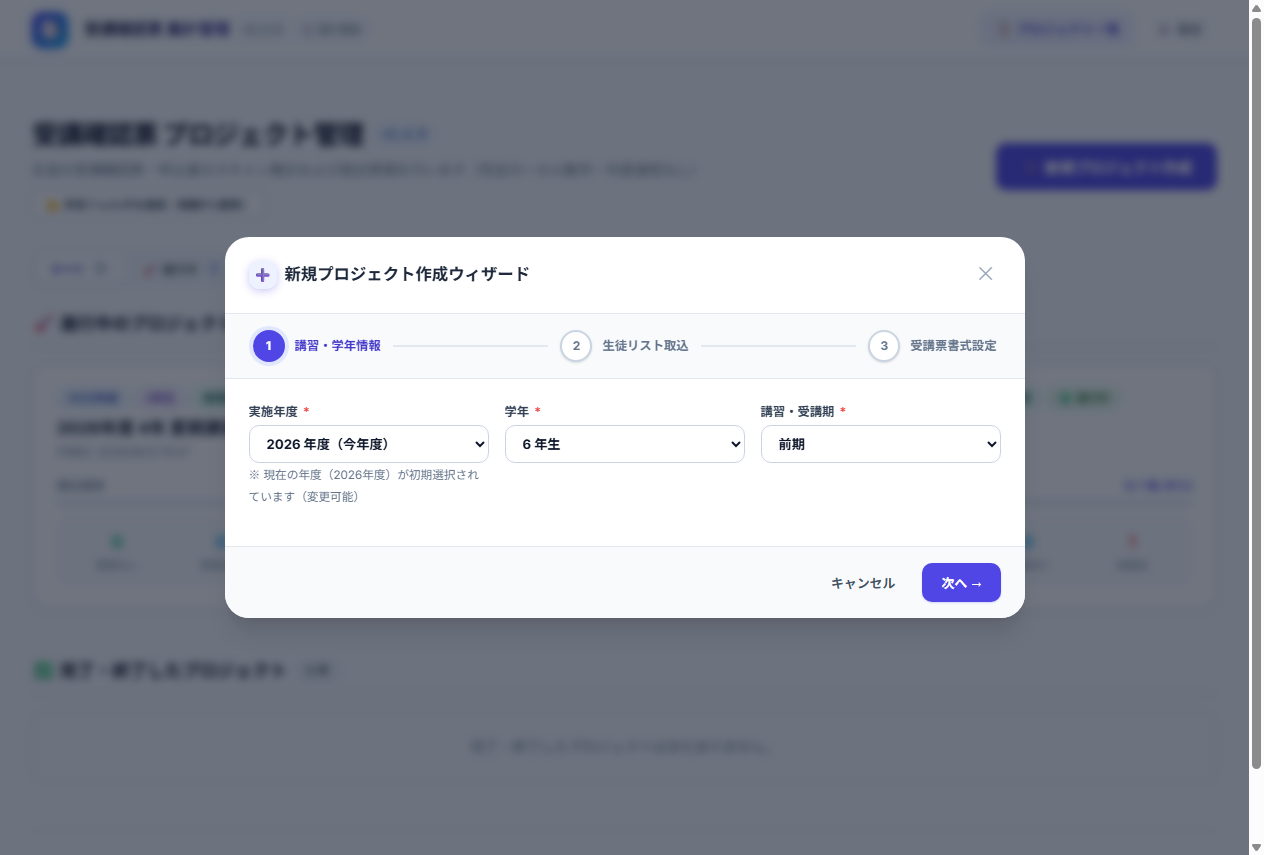
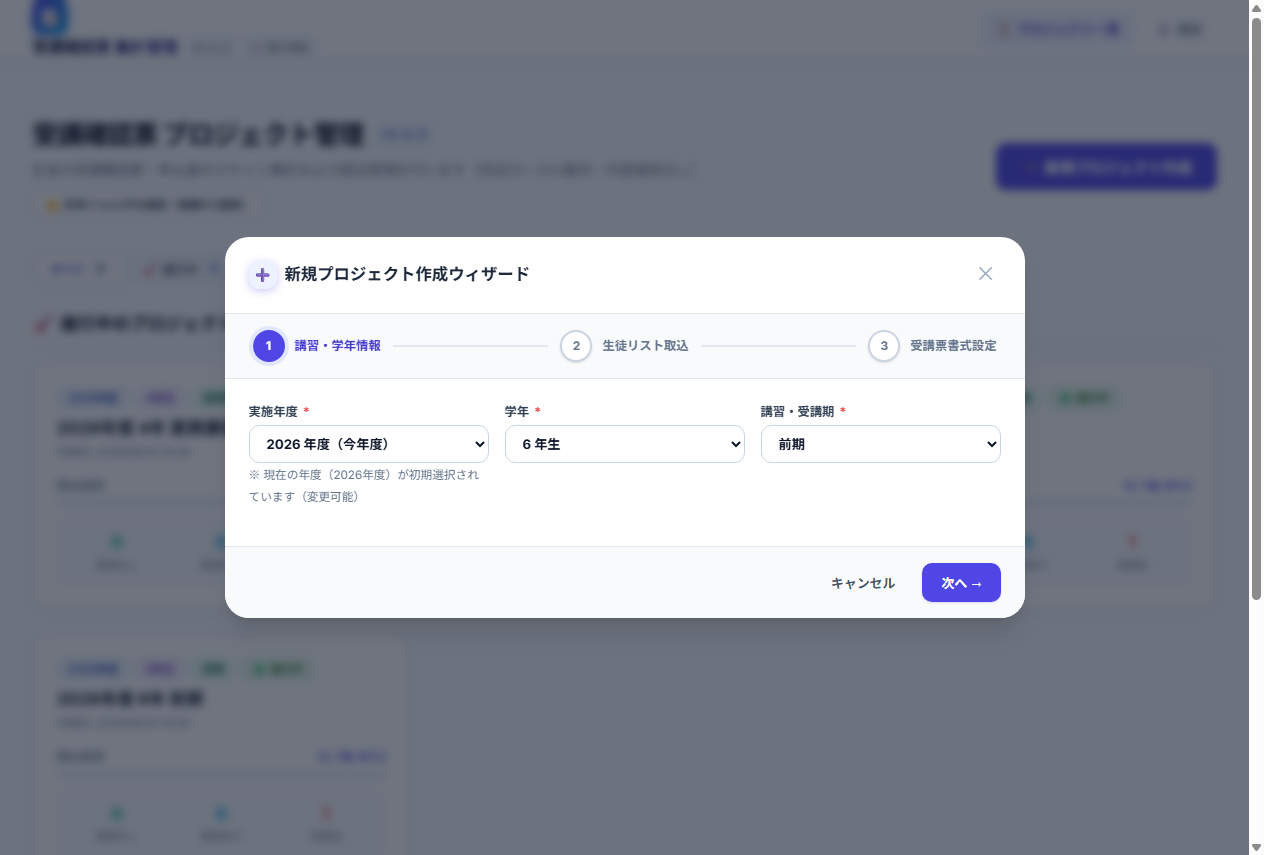
feat: modularize application with new page components, database manager, and session options support

Changed region(s): [[0.0, 0.0, 0.1851, 0.0608], [0.9873, 0.6994, 1.0, 0.9123], [0.0309, 0.7602, 0.1543, 0.8211]]

diff --git a/js/sync/sync-manager.js b/js/sync/sync-manager.js
@@ -4,6 +4,7 @@
  */
 
 import { db, DB } from '../db.js';
+import { UI } from '../utils/ui.js';
 import { FolderConnector } from './folder-connector.js';
 import { PendingQueue } from './pending-queue.js';
 
@@ -305,8 +306,8 @@ export const SyncManager = {
         id: project.id,
         year: project.year,
         grade: project.grade,
-        sessionName: project.sessionName,
-        title: project.title,
+        sessionName: UI.formatSession(project.sessionName),
+        title: UI.formatProjectTitle(project.title),
         status: project.status || '進行中',
         scanTemplate: project.scanTemplate || null,
         createdAt: project.createdAt,
@@ -488,15 +489,21 @@ export const SyncManager = {
           return { newEventsCount: 0, totalEvents: 0, notFound: true };
         }
 
-        // 1. meta.json の確認と更新（ステータス変更等の同期）
+        // 1. meta.json の確認と更新（タイトル・受講期表記正規化およびステータス同期）
         const meta = await this.readJsonFile(projDir, 'meta.json');
         if (meta) {
           const localProj = await db.projects.get(projectId);
-          if (localProj && localProj.status !== meta.status) {
-            await db.projects.update(projectId, {
-              status: meta.status,
-              completedAt: meta.completedAt || null
-            });
+          if (localProj) {
+            const cleanTitle = UI.formatProjectTitle(meta.title || localProj.title);
+            const cleanSession = UI.formatSession(meta.sessionName || localProj.sessionName);
+            const updates = {};
+            if (localProj.title !== cleanTitle) updates.title = cleanTitle;
+            if (localProj.sessionName !== cleanSession) updates.sessionName = cleanSession;
+            if (localProj.status !== meta.status) updates.status = meta.status;
+            if (localProj.completedAt !== (meta.completedAt || null)) updates.completedAt = meta.completedAt || null;
+            if (Object.keys(updates).length > 0) {
+              await db.projects.update(projectId, updates);
+            }
           }
         }
 
@@ -779,6 +786,8 @@ export const SyncManager = {
         if (handle.kind === 'directory' && name.startsWith('proj_')) {
           const meta = await this.readJsonFile(handle, 'meta.json');
           if (meta) {
+            meta.sessionName = UI.formatSession(meta.sessionName);
+            meta.title = UI.formatProjectTitle(meta.title);
             sharedProjects.push({
               dirName: name,
               meta,
@@ -850,8 +859,8 @@ export const SyncManager = {
         id: meta.id,
         year: meta.year,
         grade: meta.grade,
-        sessionName: meta.sessionName,
-        title: meta.title,
+        sessionName: UI.formatSession(meta.sessionName),
+        title: UI.formatProjectTitle(meta.title),
         status: meta.status || '進行中',
         scanTemplate: meta.scanTemplate || null,
         createdAt: meta.createdAt || new Date().toISOString(),

diff --git a/js/db.js b/js/db.js
@@ -115,11 +115,42 @@ export const DB = {
   /* ================= プロジェクト操作 ================= */
 
   /**
+   * プロジェクトレコードの表記正規化（「前期講習」等の旧表記・不整合を「前期」に補正・DB自動マイグレーション）
+   */
+  _normalizeProjectRecord(p) {
+    if (!p) return p;
+    let modified = false;
+    let sessionName = p.sessionName;
+    if (sessionName) {
+      const cleanSession = UI.formatSession(sessionName);
+      if (cleanSession !== sessionName) {
+        sessionName = cleanSession;
+        modified = true;
+      }
+    }
+    let title = p.title;
+    if (title) {
+      const cleanTitle = UI.formatProjectTitle(title);
+      if (cleanTitle !== title) {
+        title = cleanTitle;
+        modified = true;
+      }
+    }
+    if (modified && p.id) {
+      p.sessionName = sessionName;
+      p.title = title;
+      // バックグラウンドでIndexedDBを更新修復
+      db.projects.update(p.id, { sessionName, title }).catch(() => {});
+    }
+    return p;
+  },
+
+  /**
    * 全プロジェクト一覧を取得（新しい順）
    */
   async getProjects() {
     const list = await db.projects.toArray();
-    return list.map(p => ({
+    return list.map(p => this._normalizeProjectRecord({
       ...p,
       status: p.status || '進行中'
     })).sort((a, b) => new Date(b.createdAt) - new Date(a.createdAt));
@@ -146,6 +177,7 @@ export const DB = {
     const project = await db.projects.get(projectId);
     if (project) {
       project.status = project.status || '進行中';
+      this._normalizeProjectRecord(project);
     }
     return project;
   },
@@ -156,13 +188,14 @@ export const DB = {
   async createProject({ year, grade, sessionName, students, scanTemplate }) {
     const projectId = 'proj_' + Date.now() + '_' + Math.random().toString(36).substr(2, 6);
     const sessionDisplay = UI.formatSession(sessionName);
+    const normalizedSession = (sessionDisplay === '前期' || sessionDisplay === '後期') ? sessionDisplay : sessionName;
     const title = `${year}年度 ${grade}年 ${sessionDisplay}`;
 
     const project = {
       id: projectId,
       year: parseInt(year, 10),
       grade: parseInt(grade, 10),
-      sessionName,
+      sessionName: normalizedSession,
       title,
       status: '進行中',
       completedAt: null,

diff --git a/index.html b/index.html
@@ -12,10 +12,10 @@
   <link href="https://fonts.googleapis.com/css2?family=Inter:wght@400;500;600;700;800&family=JetBrains+Mono:wght@500;700&family=Noto+Sans+JP:wght@400;500;700;800&display=swap" rel="stylesheet">
 
   <!-- CSS Stylesheets -->
-  <link rel="stylesheet" href="css/variables.css?v=1.6.2">
-  <link rel="stylesheet" href="css/base.css?v=1.6.2">
-  <link rel="stylesheet" href="css/components.css?v=1.6.2">
-  <link rel="stylesheet" href="css/pages.css?v=1.6.2">
+  <link rel="stylesheet" href="css/variables.css?v=1.6.3">
+  <link rel="stylesheet" href="css/base.css?v=1.6.3">
+  <link rel="stylesheet" href="css/components.css?v=1.6.3">
+  <link rel="stylesheet" href="css/pages.css?v=1.6.3">
 
   <!-- Global Error Trap for Bootstrap -->
   <script>
@@ -38,18 +38,21 @@
 
   <!-- Local Libraries (No External Network Dependencies) -->
   <script src="lib/dexie.min.js"></script>
+  <script src="lib/jsbarcode.all.min.js"></script>
   <script src="lib/xlsx.full.min.js"></script>
-  <script src="lib/pdf.min.js"></script>
-  <script src="lib/zxing-library.min.js"></script>
+  <script src="lib/browser-fs-access.min.js"></script>
+
+  <!-- Application Entry Point (ES Modules) -->
+  <script type="module" src="js/app.js?v=1.6.3"></script>
 </head>
 <body>
-  <!-- Header -->
+  <!-- Header Bar -->
   <header class="app-header">
-    <a href="#home" class="header-brand">
-      <div class="brand-icon">📑</div>
+    <a href="#home" class="brand" style="text-decoration: none;">
+      <span class="brand-icon">📑</span>
       <div style="display: flex; align-items: center; gap: 8px;">
         <div class="brand-title">受講確認票 集計管理</div>
-        <span class="brand-version" id="header-app-version">v1.6.2</span>
+        <span class="brand-version" id="header-app-version">v1.6.3</span>
         <span id="header-sync-indicator" class="badge badge-gray" style="font-size: 0.72rem; padding: 2px 6px; cursor: pointer;" title="共有フォルダ接続状態（クリックで設定へ）">⚪ ローカル</span>
       </div>
     </a>

diff --git a/js/pages/project.js b/js/pages/project.js
@@ -64,7 +64,7 @@ export const ProjectPage = {
                 <span class="badge ${isFolderConnected ? 'badge-success' : (FolderConnector.isPermissionPending() ? 'badge-warning' : 'badge-gray')}" style="font-size: 0.75rem;">
                   ${isFolderConnected ? '🟢 共有同期中' : (FolderConnector.isPermissionPending() ? '🟡 共有再開待ち' : '⚪ ローカル')}
                 </span>
-                <h1 style="font-size: 1.4rem; font-weight: 800; color: var(--gray-900); display: inline; margin-left: 4px;">${project.title}</h1>
+                <h1 style="font-size: 1.4rem; font-weight: 800; color: var(--gray-900); display: inline; margin-left: 4px;">${UI.formatProjectTitle(project.title)}</h1>
               </div>
               <div style="font-size: 0.82rem; color: var(--gray-500);">
                 登録生徒数: <span id="header-stat-total" class="font-bold text-mono">${stats.total}</span> 名 | 
@@ -799,7 +799,7 @@ export const ProjectPage = {
             <div>
               <h3 class="modal-title font-bold">受講確認票 書式・読取位置調整</h3>
               <div style="font-size: 0.8rem; color: var(--gray-500); font-weight: normal;">
-                対象: ${project.title}
+                対象: ${UI.formatProjectTitle(project.title)}
               </div>
             </div>
           </div>
@@ -930,7 +930,7 @@ export const ProjectPage = {
               <div>
                 <h3 class="modal-title font-bold">生徒管理</h3>
                 <div style="font-size: 0.8rem; color: var(--gray-500); font-weight: normal;">
-                  対象: ${project.title} | 現在の登録生徒数: <span class="text-mono font-bold" id="modal-student-count">${students.length}</span> 名
+                  対象: ${UI.formatProjectTitle(project.title)} | 現在の登録生徒数: <span class="text-mono font-bold" id="modal-student-count">${students.length}</span> 名
                 </div>
               </div>
             </div>

diff --git a/js/pages/home.js b/js/pages/home.js
@@ -116,7 +116,7 @@ export const HomePage = {
                       <span class="badge badge-gray" style="font-size: 0.72rem;">未取り込み</span>
                     </div>
                   </div>
-                  <h3 class="project-title">${sp.meta.title}</h3>
+                  <h3 class="project-title">${UI.formatProjectTitle(sp.meta.title)}</h3>
                   <div style="font-size: 0.8rem; color: var(--gray-500); margin-top: 4px;">
                     作成日: ${UI.formatDate(sp.meta.createdAt)}
                   </div>
@@ -268,7 +268,7 @@ export const HomePage = {
               ${isExpired ? '<span class="badge badge-warning">3年経過</span>' : ''}
             </div>
           </div>
-          <h3 class="project-title">${p.title}</h3>
+          <h3 class="project-title">${UI.formatProjectTitle(p.title)}</h3>
           <div style="font-size: 0.8rem; color: var(--gray-500); margin-top: 4px;">
             作成日: ${UI.formatDate(p.createdAt)}
             ${p.completedAt ? ` | 完了日: ${UI.formatDate(p.completedAt)}` : ''}
@@ -802,7 +802,7 @@ export const HomePage = {
               });
 
               const syncMsg = FolderConnector.isConnected() ? '（共有フォルダへ書き出しました）' : '';
-              UI.showToast(`「${project.title}」を作成しました${syncMsg}`, 'success');
+              UI.showToast(`「${UI.formatProjectTitle(project.title)}」を作成しました${syncMsg}`, 'success');
               modal.remove();
               window.location.hash = `#project/${project.id}`;
             } catch (err) {

diff --git a/js/utils/ui.js b/js/utils/ui.js
@@ -275,15 +275,29 @@ export const UI = {
   },
 
   /**
-   * 講習名・受講期を表示用に整形（例: "夏期" -> "夏期講習", "前期" -> "前期"）
+   * 講習名・受講期を表示用に整形（例: "夏期" -> "夏期講習", "前期" -> "前期", "前期講習" -> "前期"）
    * @param {string} sessionName
    * @returns {string}
    */
   formatSession(sessionName) {
     if (!sessionName) return '';
-    if (sessionName === '前期' || sessionName === '後期') return sessionName;
-    if (sessionName.includes('講習')) return sessionName;
-    return `${sessionName}講習`;
+    const clean = String(sessionName).trim();
+    if (clean === '前期' || clean === '前期講習' || clean.startsWith('前期')) return '前期';
+    if (clean === '後期' || clean === '後期講習' || clean.startsWith('後期')) return '後期';
+    if (clean.includes('講習')) return clean;
+    return `${clean}講習`;
+  },
+
+  /**
+   * プロジェクトタイトルの表示整形（「前期講習」->「前期」、「後期講習」->「後期」）
+   * @param {string} title
+   * @returns {string}
+   */
+  formatProjectTitle(title) {
+    if (!title) return '';
+    return String(title)
+      .replace(/前期講習/g, '前期')
+      .replace(/後期講習/g, '後期');
   },
 
   /**

diff --git a/js/pages/list.js b/js/pages/list.js
@@ -366,13 +366,15 @@ export const ListPage = {
 
     // 出力
     this.container.querySelector('#btn-export-csv').onclick = () => {
-      const fileName = `${this.project.title}_提出集計_${new Date().toISOString().slice(0, 10)}.csv`;
+      const cleanTitle = UI.formatProjectTitle(this.project.title);
+      const fileName = `${cleanTitle}_提出集計_${new Date().toISOString().slice(0, 10)}.csv`;
       CsvUtil.exportSubmissionsCsv(this.filteredList, fileName);
       UI.showToast(`CSVファイルを出力しました (${this.filteredList.length} 件)`, 'success');
     };
 
     this.container.querySelector('#btn-export-excel').onclick = () => {
-      const fileName = `${this.project.title}_提出集計_${new Date().toISOString().slice(0, 10)}.xlsx`;
+      const cleanTitle = UI.formatProjectTitle(this.project.title);
+      const fileName = `${cleanTitle}_提出集計_${new Date().toISOString().slice(0, 10)}.xlsx`;
       CsvUtil.exportSubmissionsExcel(this.filteredList, fileName);
       UI.showToast(`Excelファイルを出力しました (${this.filteredList.length} 件)`, 'success');
     };

diff --git a/js/pages/scan.js b/js/pages/scan.js
@@ -487,7 +487,7 @@ export const ScanPage = {
                 <div>
                   <h3 class="modal-title font-bold">受講確認票 書式・読取位置調整</h3>
                   <div style="font-size: 0.8rem; color: var(--gray-500); font-weight: normal;">
-                    対象: ${this.project.title}
+                    対象: ${UI.formatProjectTitle(this.project.title)}
                   </div>
                 </div>
               </div>

diff --git a/js/version.js b/js/version.js
@@ -2,7 +2,7 @@
  * アプリケーション バージョン & システム情報定義
  */
 
-export const APP_VERSION = 'v1.6.2';
+export const APP_VERSION = 'v1.6.3';
 export const APP_BUILD_DATE = '2026-09-13';
 export const APP_NAME = '受講確認票 処理システム';
 

diff --git a/js/pages/manual.js b/js/pages/manual.js
@@ -39,7 +39,7 @@ export const ManualPage = {
           </button>
         </div>
         <div style="font-size: 0.82rem; color: var(--gray-600);">
-          ${this.project.title}
+          ${UI.formatProjectTitle(this.project.title)}
         </div>
       </div>
 

diff --git a/scripts/verify_session_options.py b/scripts/verify_session_options.py
@@ -75,7 +75,7 @@ async def main():
             await wait_for_selector('#header-app-version')
             version_text = await eval_js("document.querySelector('#header-app-version').textContent")
             print(f"[CHECK 1] Header App Version: {version_text}")
-            assert version_text == 'v1.6.0', f"Expected v1.6.0, got {version_text}"
+            assert version_text == 'v1.6.3', f"Expected v1.6.3, got {version_text}"
 
             # 2. 新規プロジェクトモーダルを開く
             await eval_js("document.querySelector('#btn-new-project').click()")
@@ -104,7 +104,7 @@ async def main():
             await asyncio.sleep(0.5)
 
             # 5. DB.createProject によるプロジェクト生成検証
-            # (A) 前期
+            # (A) 前期（通常）
             proj_zenki = await eval_js("""
                 (async () => {
                     const { DB } = await import('./js/db.js');
@@ -118,6 +118,23 @@ async def main():
             """)
             print(f"[CHECK 3-A] Created Zenki project: title='{proj_zenki.get('title')}', sessionName='{proj_zenki.get('sessionName')}'")
             assert proj_zenki.get('title') == '2026年度 6年 前期', f"Expected '2026年度 6年 前期', got {proj_zenki.get('title')}"
+            assert proj_zenki.get('sessionName') == '前期', f"Expected sessionName '前期', got {proj_zenki.get('sessionName')}"
+
+            # (A-2) 「前期講習」として指定された場合でも「前期」に正規化されることの検証
+            proj_zenki_koushu = await eval_js("""
+                (async () => {
+                    const { DB } = await import('./js/db.js');
+                    return await DB.createProject({
+                        year: 2026,
+                        grade: 6,
+                        sessionName: '前期講習',
+                        students: [{ nichinokenId: '12345677', name: 'テスト前期講習指定', className: 'M2', course: '4科' }]
+                    });
+                })()
+            """)
+            print(f"[CHECK 3-A2] Created Zenki project from '前期講習': title='{proj_zenki_koushu.get('title')}', sessionName='{proj_zenki_koushu.get('sessionName')}'")
+            assert proj_zenki_koushu.get('title') == '2026年度 6年 前期', f"Expected '2026年度 6年 前期', got {proj_zenki_koushu.get('title')}"
+            assert proj_zenki_koushu.get('sessionName') == '前期', f"Expected sessionName '前期', got {proj_zenki_koushu.get('sessionName')}"
 
             # (B) 後期
             proj_kouki = await eval_js("""
@@ -204,6 +221,23 @@ async def main():
             with open('scratch/verify_session_options.png', 'wb') as f:
                 f.write(ss_data)
             print("[CHECK 6] Screenshot saved to scratch/verify_session_options.png")
+
+            # モーダルを閉じてホーム画面全体のスクリーンショット保存
+            await eval_js("document.querySelector('.modal-close').click()")
+            await asyncio.sleep(0.5)
+            ss_home = await send('Page.captureScreenshot', {'format': 'png'})
+            with open('scratch/home_zenki.png', 'wb') as f:
+                f.write(base64.b64decode(ss_home['data']))
+            print("[CHECK 7] Screenshot saved to scratch/home_zenki.png")
+
+            # プロジェクト詳細画面のスクリーンショット保存
+            await eval_js(f"location.hash = '#project/{proj_zenki['id']}';")
+            await wait_for_selector('.project-header-bar')
+            await asyncio.sleep(0.5)
+            ss_proj = await send('Page.captureScreenshot', {'format': 'png'})
+            with open('scratch/project_zenki.png', 'wb') as f:
+                f.write(base64.b64decode(ss_proj['data']))
+            print("[CHECK 8] Screenshot saved to scratch/project_zenki.png")
 
             print("\n🎉 ALL VERIFICATION CHECKS PASSED SUCCESSFULLY!")
 

diff --git a/README.md b/README.md
@@ -1,4 +1,4 @@
-# 塾向け受講確認票処理システム (Application Form Reader) `v1.6.2`
+# 塾向け受講確認票処理システム (Application Form Reader) `v1.6.3`
 
 生徒・保護者から提出される期間講習（夏期・冬期・春期）および通常授業（前期・後期）の受講確認票・申込書をスキャンし、バーコードとチェックボックスから自動集計・承認・管理を行う完全クライアントサイドWebアプリケーションです。
 
